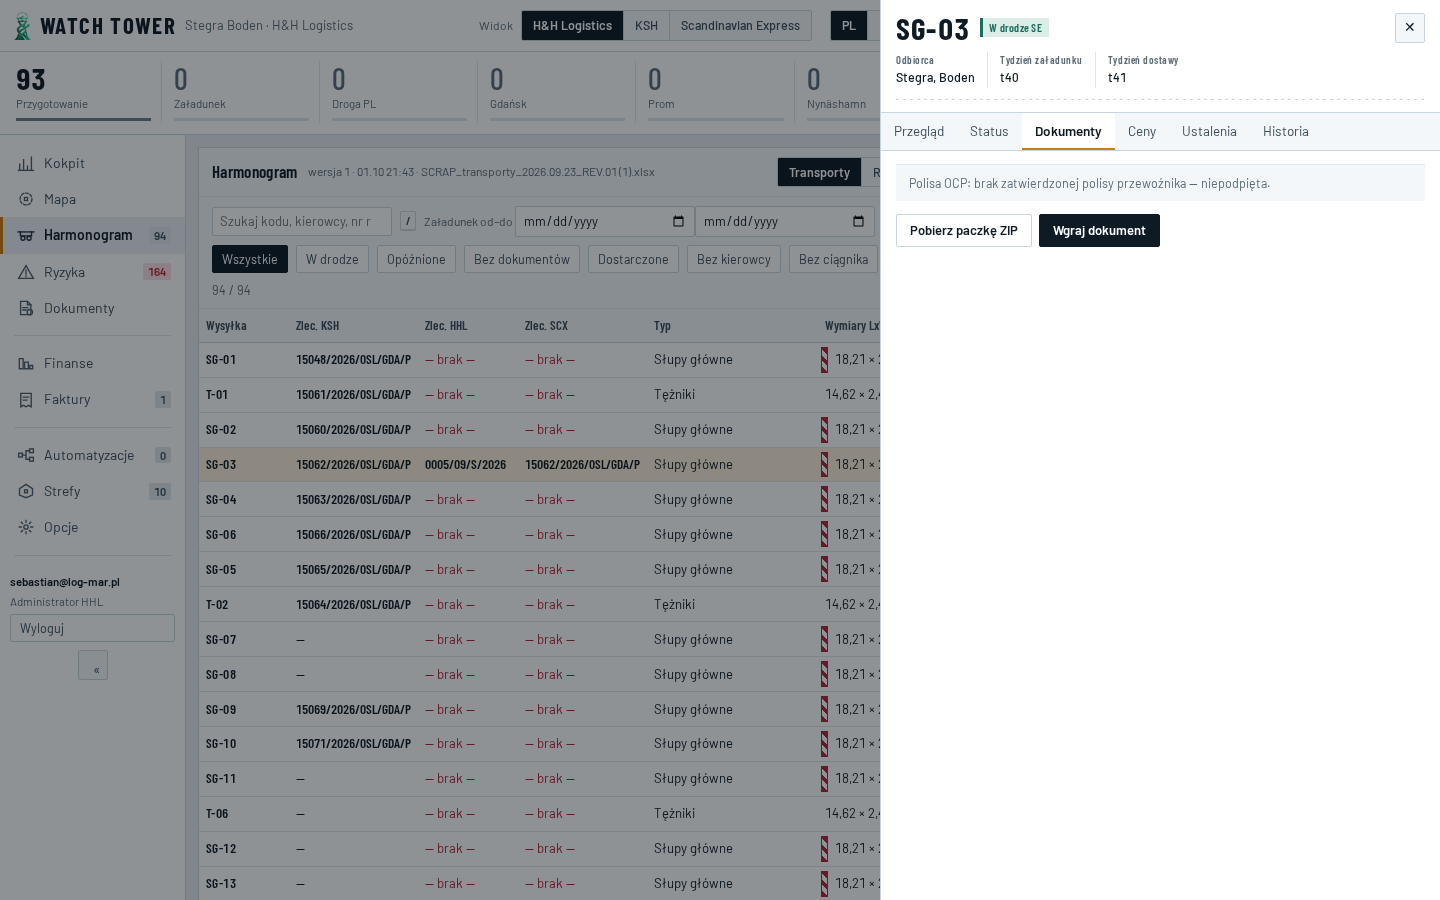
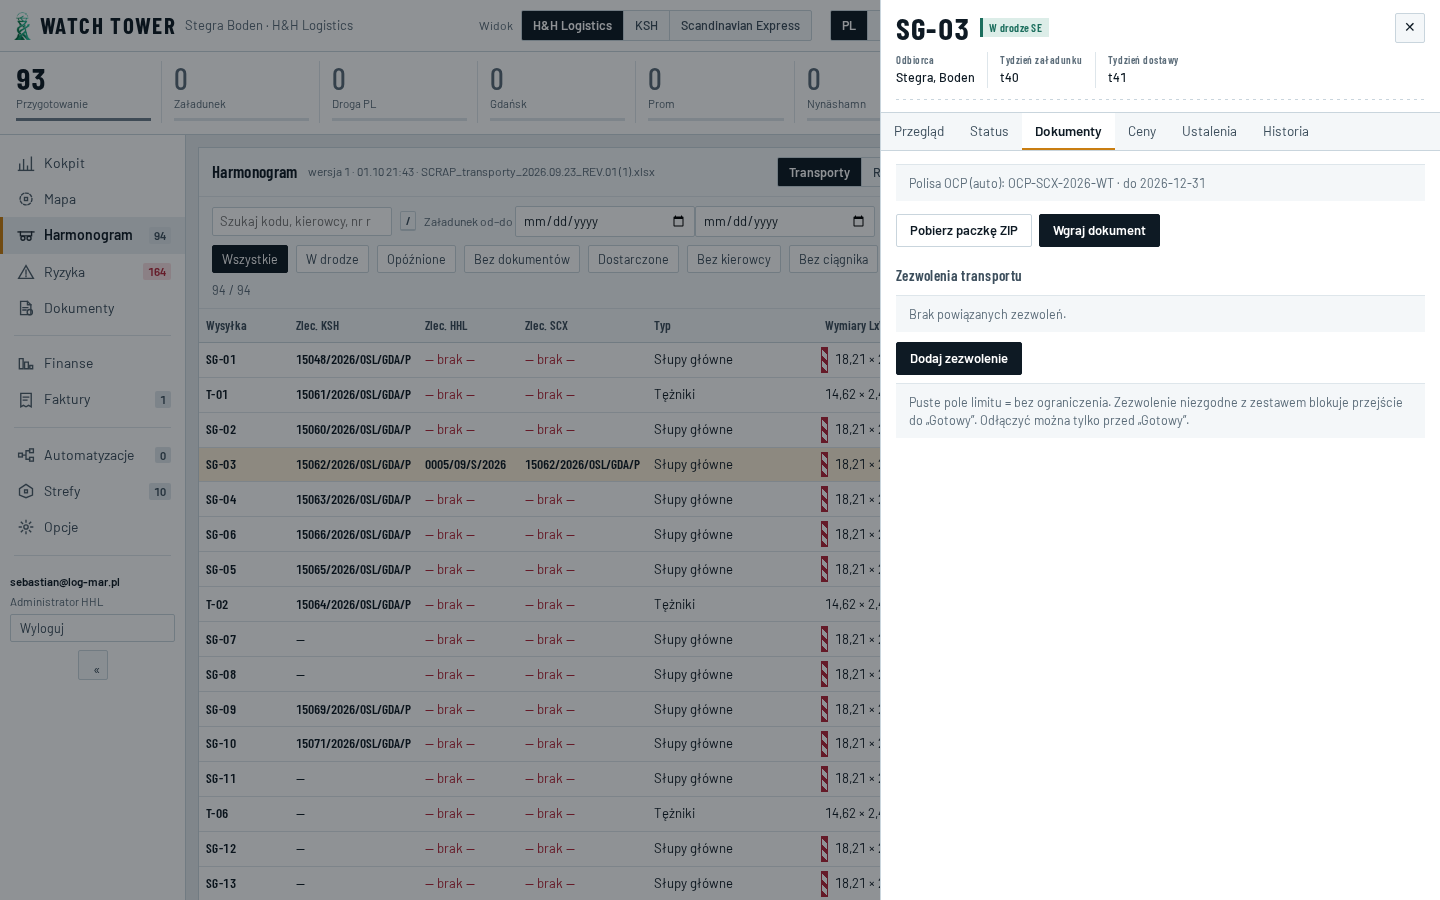
Zeszyt: raport sekcji 3 + zrzuty 3.2 (94/94 + notka auto)

Changed region(s): [[0.625, 0.3422, 0.9688, 0.4667], [0.6875, 0.1867, 0.875, 0.2178], [0.625, 0.28, 0.7188, 0.3111]]

diff --git a/docs/handover/WERYFIKACJA_ZESZYT_05_10.md b/docs/handover/WERYFIKACJA_ZESZYT_05_10.md
@@ -28,3 +28,8 @@ Kopia JSON: lokalnie poza repo (`agent-data/.../konta-backup/`). **R2:** wrangle
 
 | 3.1 | zezwolenie per firma obok polisy, auto wg wymiarów | **⛔** — czeka na wymiary D-83 | — | — |
 | 3.2 | Ubezpieczenie automatycznie podpina się do każdej trasy | **poprawione** — `load_insurance_cover`: APPROVED polisa SCX → 94/94; notka w szufladzie Dokumenty | `3.2.png` (+ overview) | PR (ten) · migracja **0182** |
+
+## Raport sekcji 3 (Dokumenty)
+- Zgodne: 0 · Poprawione: 1 (3.2) · ⛔: 1 (3.1 D-83)
+- Wdrożenie: PR #99/#100/#101, migracje **0182–0183**, Vercel READY; domeny **200**
+- Polisa startowa SCX `OCP-SCX-2026-WT` (APPROVED) → kompletność **94/94**; notka w szufladzie Dokumenty

diff --git a/docs/handover/POCZEKALNIA.md b/docs/handover/POCZEKALNIA.md
@@ -6,3 +6,4 @@
 | 2026-10-05 14:31 | executor (obserwacja przy 1.1) | Zegar w prawym górnym rogu (np. 14:31) | P10 |
 | 2026-10-05 14:31 | executor (obserwacja przy 1.1) | Napis „N pojazdów w ruchu” liczy `progress`, nie GPS — może mylić przy 1.1 | pytanie: czy licznik ma pokazywać tylko pojazdy z prawdziwym GPS? |
 | 2026-10-05 14:46 | executor | Kopia usuniętych kont O3/typo — dograć do R2 po logowaniu Cloudflare | po liście / R2 |
+| 2026-10-05 14:49 | executor | TEST DB bez `insurance_policies.approval_status` (0125) — nałożyć 0125+ na TEST przed pełną bramą 0182 | brama TEST |
